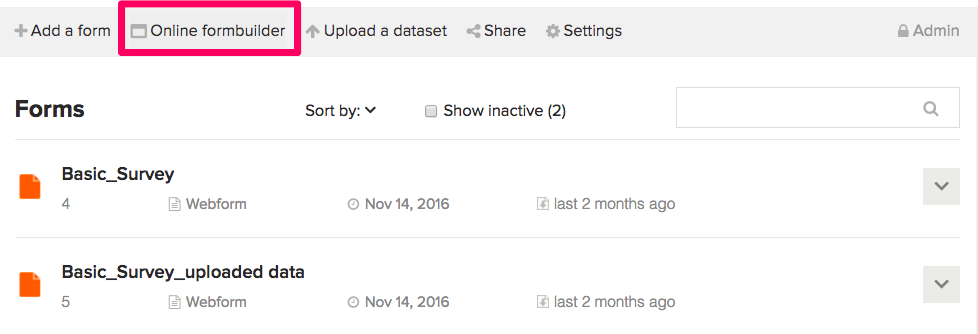
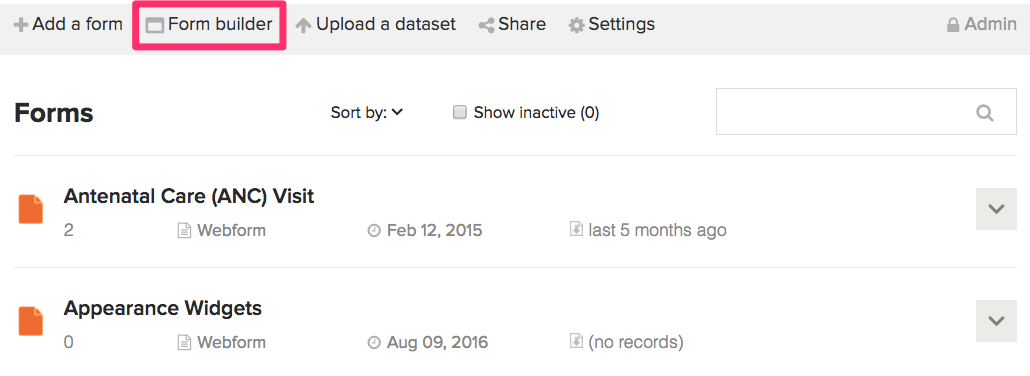
BM:Image change

diff --git a/guides/form builder/_posts/2017-01-10-form-builder.md b/guides/form builder/_posts/2017-01-10-form-builder.md
@@ -41,7 +41,7 @@ Ona Form Builder is another way for you to create and build questionnaires. The 
 
 ##### <a name="creating-a-form"></a>Creating a Form
 
-Open the project in which the form is to be published, then click on **Online form builder** as shown below:
+Open the project in which the form is to be published, then click on **Form builder** as shown below:
 
 ![](/content/screenshots/formbuilder/form-builder-1.png)
 
